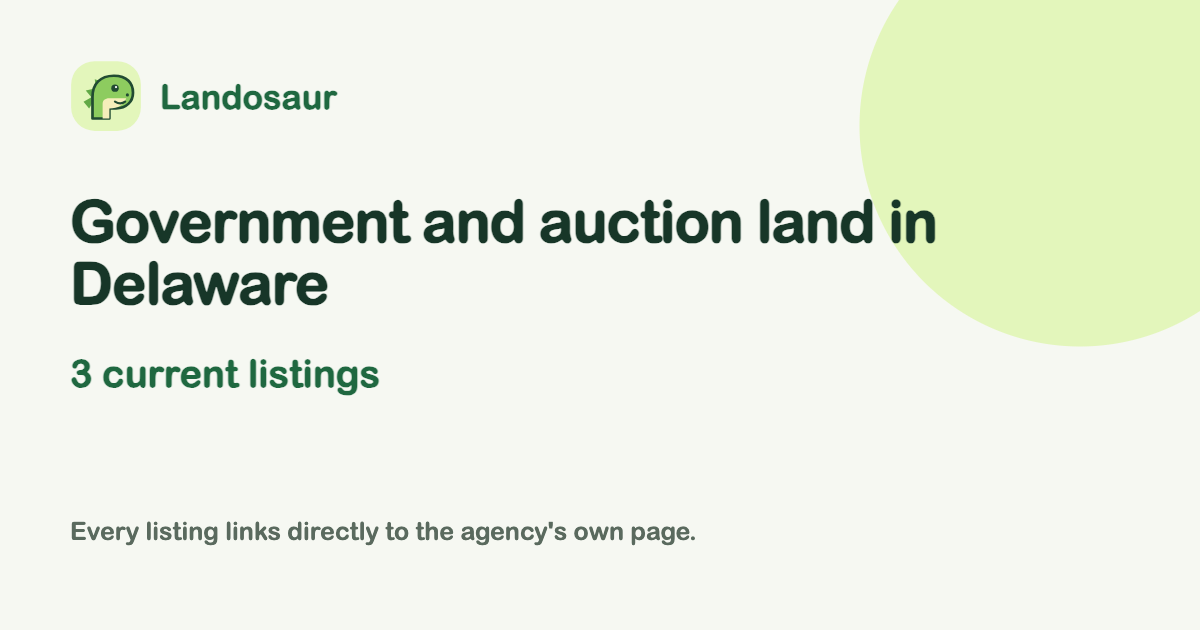
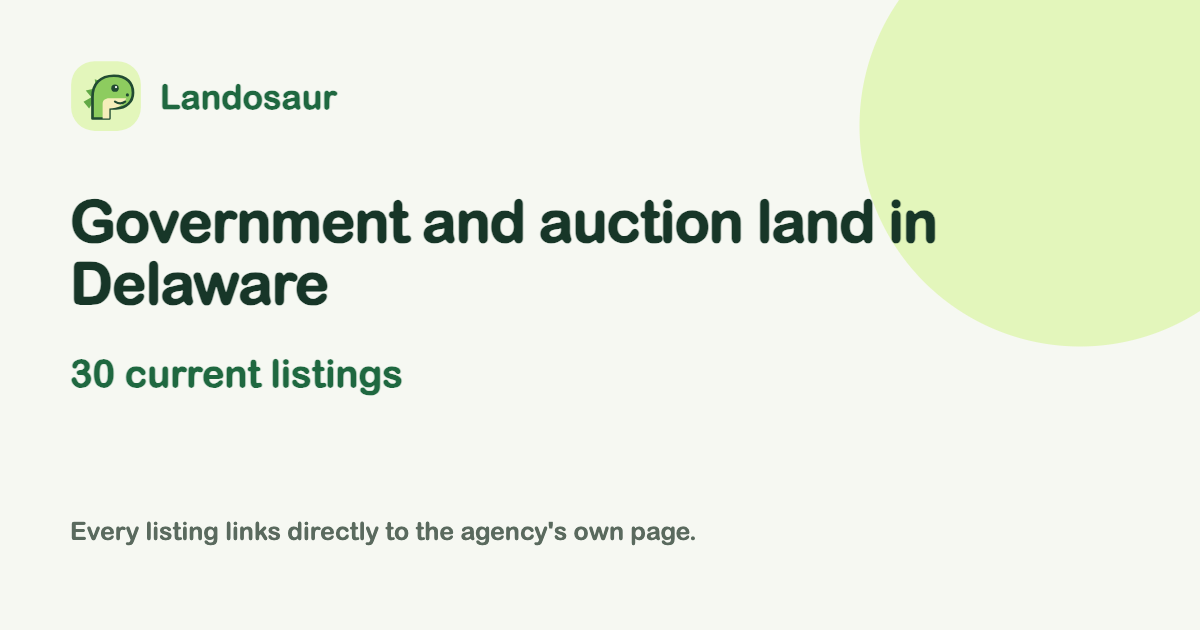
Carry Milford’s platted development lots

Changed region(s): [[0.0617, 0.573, 0.3392, 0.6333]]

diff --git a/lando/adapters.py b/lando/adapters.py
@@ -224,6 +224,8 @@ def outline_url(listing):
         return one_parcel_url(CT_CAMA_PARCELS, f"Town_Name='Windham' AND Parcel_ID='{listing['apn']}'", "Parcel_ID,Location_1")
     if listing["source"] == "wy-osli-sheridan-rfp":
         return SHERIDAN_WY_SALE_MAP
+    if listing["source"] == "milford-de-corporate-center" and re.fullmatch(r"5-16-17301-01-\d{4}-00001", listing["apn"]):
+        return one_parcel_url(MILFORD_DE_PARCELS, f"Name='{listing['apn']}'", MILFORD_DE_FIELDS)
     if listing["source"] == "grays-harbor-wa-tax-title":
         return one_parcel_url(GRAYS_HARBOR_WA_PARCELS, "ORIG_PARCE='%s'" % listing["apn"].replace("'", "''"))
     if listing["source"] == "rio-grande-co-treasurer-sale" and listing["apn"] == RIO_GRANDE_CO_APN:
@@ -7433,6 +7435,59 @@ def salem_nj_offers(fetch, now, warn):
     return rows, {"complete": True, "upstream_total": len(roster)}
 
 
+MILFORD_DE_SALES = ("https://growinmilford.com/news/2026/09/02/industrial-park/"
+                    "milford-corporate-center-s-first-infrastructure-phase-nearly-done/")
+MILFORD_DE_PLAT = "https://www.cityofmilford.com/Archive/ViewFile/Item/5252"
+MILFORD_DE_PARCELS = "https://gis.kentcountyde.gov/server/rest/services/Parcels/Parcels/FeatureServer/0/query"
+MILFORD_DE_PARENT = "5-16-17300-01-0100-00001"
+MILFORD_DE_FIELDS = "Name,Lot_Number,LOCATION,Parent,Plat_Book,DEEDACREAGE,IMPROVE,YearBuilt,PropertyUse"
+
+
+def milford_de_corporate_center(fetch, now, warn):
+    marketing = clean(fetch.text(MILFORD_DE_SALES))
+    if "Milford Corporate Center" not in marketing or "now marketing 27 available lots" not in marketing:
+        raise StructureError("Milford’s published offer for the Corporate Center lots changed")
+    plat = clean(pdf_text(fetch, MILFORD_DE_PLAT, extraction_mode="plain"))
+    if ("ORDINANCE 2024-04" not in plat or "Final Major Subdivision Plan of Milford Corporate Center" not in plat
+            or "MD-16-173.00-01-01.00" not in plat):
+        raise StructureError("Milford Corporate Center’s subdivision approval changed")
+
+    where = (f"Parent='{MILFORD_DE_PARENT}' AND Plat_Book='PB 161-37' "
+             "AND UPPER(OWNERNAME) LIKE '%MILFORD%' AND UPPER(OWNERNAME) LIKE '%CITY%'")
+    _, parcels = arcgis_query(fetch, MILFORD_DE_PARCELS, where, MILFORD_DE_FIELDS)
+    by_lot = Counter(clean(feature["attributes"].get("Lot_Number")) for feature in parcels)
+    rows = []
+    for feature in parcels:
+        attr = feature["attributes"]
+        lot = clean(attr.get("Lot_Number"))
+        # Only the 27 marketed lots. The other recorded parcels serve utilities or open space.
+        if not re.fullmatch(r"[1-9]|1\d|2[0-7]", lot) or by_lot[lot] != 1:
+            continue
+        pin = attr.get("Name")
+        acres = number(attr.get("DEEDACREAGE"))
+        addr = clean(attr.get("LOCATION")).title()
+        if (pin != f"5-16-17301-01-{int(lot):02d}00-00001" or attr.get("Parent") != MILFORD_DE_PARENT
+                or attr.get("Plat_Book") != "PB 161-37" or attr.get("PropertyUse") != "Office - Vacant Land"
+                or attr.get("IMPROVE") != 0 or attr.get("YearBuilt") != 0 or not acres or not addr):
+            continue
+        outline = one_parcel_url(MILFORD_DE_PARCELS, f"Name='{pin}'", MILFORD_DE_FIELDS)
+        row = {
+            "id": f"de-milford-corporate-center-lot-{lot}", "source": "milford-de-corporate-center",
+            "title": f"Milford Corporate Center lot {lot} ({addr})", "state": "DE", "county": "Kent",
+            "locality": "Milford", "address": addr, "apn": pin, "acres": acres, "price": None,
+            "price_kind": "none", "offering": "offer", "status": "listed", "deadline": None,
+            "url": MILFORD_DE_SALES, "lat": None, "lon": None, "geometry": None,
+            "facts": [fact("availability", "Development lot marketed for sale by the city through NAI Emory Hill.", "="),
+                      fact("acreage", f"{acres:g} deed acres in the Kent County assessment record", outline),
+                      fact("parcel_number", f"Lot {lot}, Kent County Plat Book 161, page 37", outline),
+                      fact("sale_terms", "The city approved the subdivision. Confirm current purchase terms, deed restrictions and site readiness with the city’s broker.", MILFORD_DE_PLAT)],
+            "tags": ["city development land", "industrial park"],
+        }
+        apply_geometry(row, (feature.get("geometry") or {}).get("rings", []), outline, "Kent County")
+        rows.append(row)
+    return rows, {"complete": True, "upstream_total": len(parcels)}
+
+
 DELDOT_AUCTIONS = "https://deldot.gov/Business/auctions/"
 # The vacancy is visible in the sale notice's official aerial and survey, not stated in its text.
[1 lines of base64/hex data omitted]
@@ -12794,6 +12849,10 @@ SOURCES = [
      "agency": SHERIDAN_WY_AGENCY, "url": SHERIDAN_WY_RFP, "state": "WY", "timezone": "America/Denver",
      "run": sheridan_wy_rfp, "requires_sale_match": True,
      "about": "The state invites competitive purchase, lease or exchange proposals for two vacant tracts as one offering."},
+    {"id": "milford-de-corporate-center", "name": "Milford Corporate Center vacant development lots",
+     "agency": "City of Milford Economic Development, Delaware", "url": MILFORD_DE_SALES, "state": "DE",
+     "run": milford_de_corporate_center, "requires_sale_match": True,
+     "about": "Individually platted lots in the city’s sale program, verified against the Kent County parcel roll and boundaries."},
     {"id": "riverton-wy-industrial", "name": "Riverton vacant industrial lots on Piper Drive",
      "agency": "City of Riverton, Wyoming", "url": RIVERTON_WY_DOCS["terms"][0], "state": "WY",
      "run": riverton_wy_industrial, "requires_sale_match": True,
@@ -12991,6 +13050,8 @@ NOT_CARRIED = [
      "The official meeting vendor disallows access to the older packet index and agenda routes in robots.txt."),
     ("Wyoming Sheridan RFP raw PDF download", "https://drive.google.com/uc?export=download&id=1xq6MKz8XOGB1ihchTkcdUfjxgbuDWRWe",
      "Drive disallows its automated download paths. The state’s announcement, public solicitation catalog and county assessment are carried."),
+    ("Milford Corporate Center separate marketing microsite", "https://milfordcorporatecenter.com/",
+     "The microsite could not serve a verifiable robots.txt over TLS. The city’s own sale publication and county parcel roll are carried."),
     ("Connecticut CTsource Bid Board", "https://webprocure.proactiscloud.com/wp-web-public/en/",
      "The state procurement vendor returned HTML in place of robots.txt. Windham’s separate town bid notice is carried."),
     ("Arkansas GeoStor statewide assessor portal", "https://geostor.arkansas.gov/",

diff --git a/tests/test_adapters.py b/tests/test_adapters.py
@@ -1930,6 +1930,29 @@ class OfficialInventoryExtensionTest(unittest.TestCase):
         self.assertNotIn("Private prior holder", repr(row))
         self.assertEqual(pdf.call_count, 3)
 
+    def test_milford_matches_marketed_lots_and_excludes_infrastructure_and_buildings(self):
+        fetch = unittest.mock.Mock()
+        fetch.text.return_value = "<h1>Milford Corporate Center</h1><p>The city is now marketing 27 available lots.</p>"
+        approval = "ORDINANCE 2024-04 Final Major Subdivision Plan of Milford Corporate Center MD-16-173.00-01-01.00"
+        ring = [[-75.46, 38.927], [-75.459, 38.927], [-75.459, 38.928], [-75.46, 38.927]]
+        parcels = []
+        for lot, improvements in ((1, 0), (2, 20000), (27, 0), (28, 0), (29, 0)):
+            attrs = {"Lot_Number": str(lot), "Name": f"5-16-17301-01-{lot:02d}00-00001", "IMPROVE": improvements,
+                     "Parent": adapters.MILFORD_DE_PARENT, "Plat_Book": "PB 161-37", "PropertyUse": "Office - Vacant Land",
+                     "YearBuilt": 0, "DEEDACREAGE": 5.3, "LOCATION": "INNOVATION WAY"}
+            parcels.append({"attributes": attrs, "geometry": {"rings": [ring]}})
+        with patch.object(adapters, "pdf_text", return_value=approval), \
+                patch.object(adapters, "arcgis_query", return_value=("https://assessor.example", parcels)) as assessor:
+            rows, _ = adapters.milford_de_corporate_center(fetch, NOW, self.fail)
+            self.assertEqual([row["id"] for row in rows], ["de-milford-corporate-center-lot-1", "de-milford-corporate-center-lot-27"])
+            self.assertEqual((rows[0]["acres"], rows[0]["price"], rows[0]["status"]), (5.3, None, "listed"))
+            self.assertTrue(rows[0]["geometry"])
+            self.assertIn("UPPER(OWNERNAME)", assessor.call_args.args[2])
+            self.assertNotIn("owner", assessor.call_args.args[3].lower())
+            fetch.text.return_value = "The city has sold all Corporate Center lots."
+            with self.assertRaises(adapters.StructureError):
+                adapters.milford_de_corporate_center(fetch, NOW, self.fail)
+
     def test_sheridan_publishes_one_current_proposal_after_matching_both_vacant_tracts(self):
         from lando.adapters import SHERIDAN_WY_AGENCY, SHERIDAN_WY_CLOSE, SHERIDAN_WY_OPEN, SHERIDAN_WY_TERMS
 

diff --git a/scripts/check_dist.py b/scripts/check_dist.py
@@ -60,7 +60,7 @@ OFFICIAL = {
     "cityofhuntington.com", "oregon.gov", "graysharbor.gov", "alpha.creativecirclecdn.com", "countyofelkpa.gov", "dorchestermd.gov",
     "toddcountymn.gov", "jacksoncountyohlandbank.org", "knoxadf.com", "chesterfieldtwp.org", "windhamct.gov", "renvillecountymn.gov",
     "fcidc.com", "loraincountyauditor.gov", "kcgov.us", "claremontnh.com", "providenceri.gov", "cityoflidgerwoodnd.com", "centerville-ia.org",
-    "cityofatlantic.com", "cityofclintoniowa.gov", "nevadacountyca.gov", "lands.wyo.gov",
+    "cityofatlantic.com", "cityofclintoniowa.gov", "nevadacountyca.gov", "lands.wyo.gov", "growinmilford.com",
     "city.milwaukee.gov", "detroitmi.gov", "co.lucas.oh.us", "co.sauk.wi.us", "hokecounty.net", "wsdot.wa.gov", "itascacountymn.gov", "valencia.nm.us", "tax.newmexico.gov", "stlouiscountymn.gov", "fnsb.gov",
 }
 

diff --git a/lando/model.py b/lando/model.py
@@ -76,6 +76,7 @@ class Catalog(object):
                 deadline = parse_time(r.get("deadline"))
                 deadline_local = deadline.astimezone(sale_zone) if deadline and sale_zone else deadline
                 r["deadline_date"] = deadline_local.date().isoformat() if deadline_local else (r.get("deadline") or "")[:10]
+                r["deadline_display"] = deadline_local.strftime("%Y-%m-%d %H:%M %Z") if deadline_local else r["deadline_date"]
                 cutoff = deadline if r["status"] in ("auction_open", "auction_terms", "proposal_open") else None
                 offer_day = r.get("offer_close_date")
                 auction_day = r.get("auction_day")

diff --git a/tests/test_store_and_site.py b/tests/test_store_and_site.py
@@ -119,6 +119,7 @@ class RefreshAndBuildTest(unittest.TestCase):
         cutoff = datetime.datetime(2026, 12, 16, tzinfo=datetime.timezone.utc)
         active, = Catalog(self.data, now=cutoff - datetime.timedelta(seconds=1)).current()
         self.assertEqual(active["deadline_date"], "2026-12-15")
+        self.assertEqual(active["deadline_display"], "2026-12-15 17:00 MST")
         self.assertEqual(active["deadline"], row["deadline"])
         self.assertEqual(active["closes_at_ms"], int(cutoff.timestamp() * 1000))
         self.assertEqual(Catalog(self.data, now=cutoff).current(), [])

diff --git a/lando/pages.py b/lando/pages.py
@@ -2392,7 +2392,7 @@ class Site(object):
         if r.get("apn"):
             kv.append(("Parcel", esc(r["apn"])))
         if r.get("deadline"):
-            kv.append(("Deadline", esc(r["deadline"][:16].replace("T", " ") + " UTC")))
+            kv.append(("Deadline", esc(r["deadline_display"])))
         kv.append(("Source", '<a href="%s" rel="noopener">%s</a>' % (esc(src.get("url", r["url"])), esc(src.get("agency", r["source"])))))
         kv.append(("Last read", esc(r["checked"] or "unknown")))
         if r.get("first_seen"):
